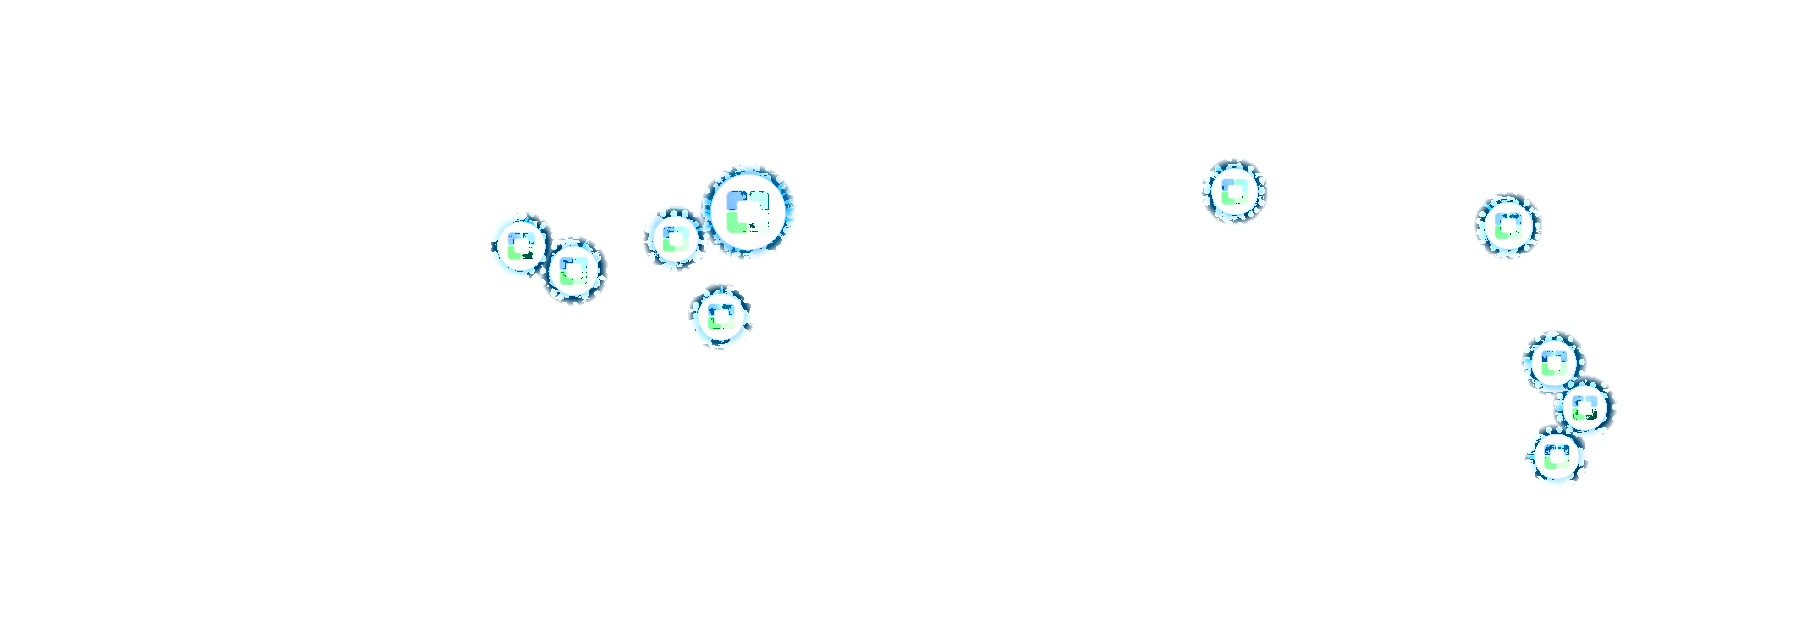
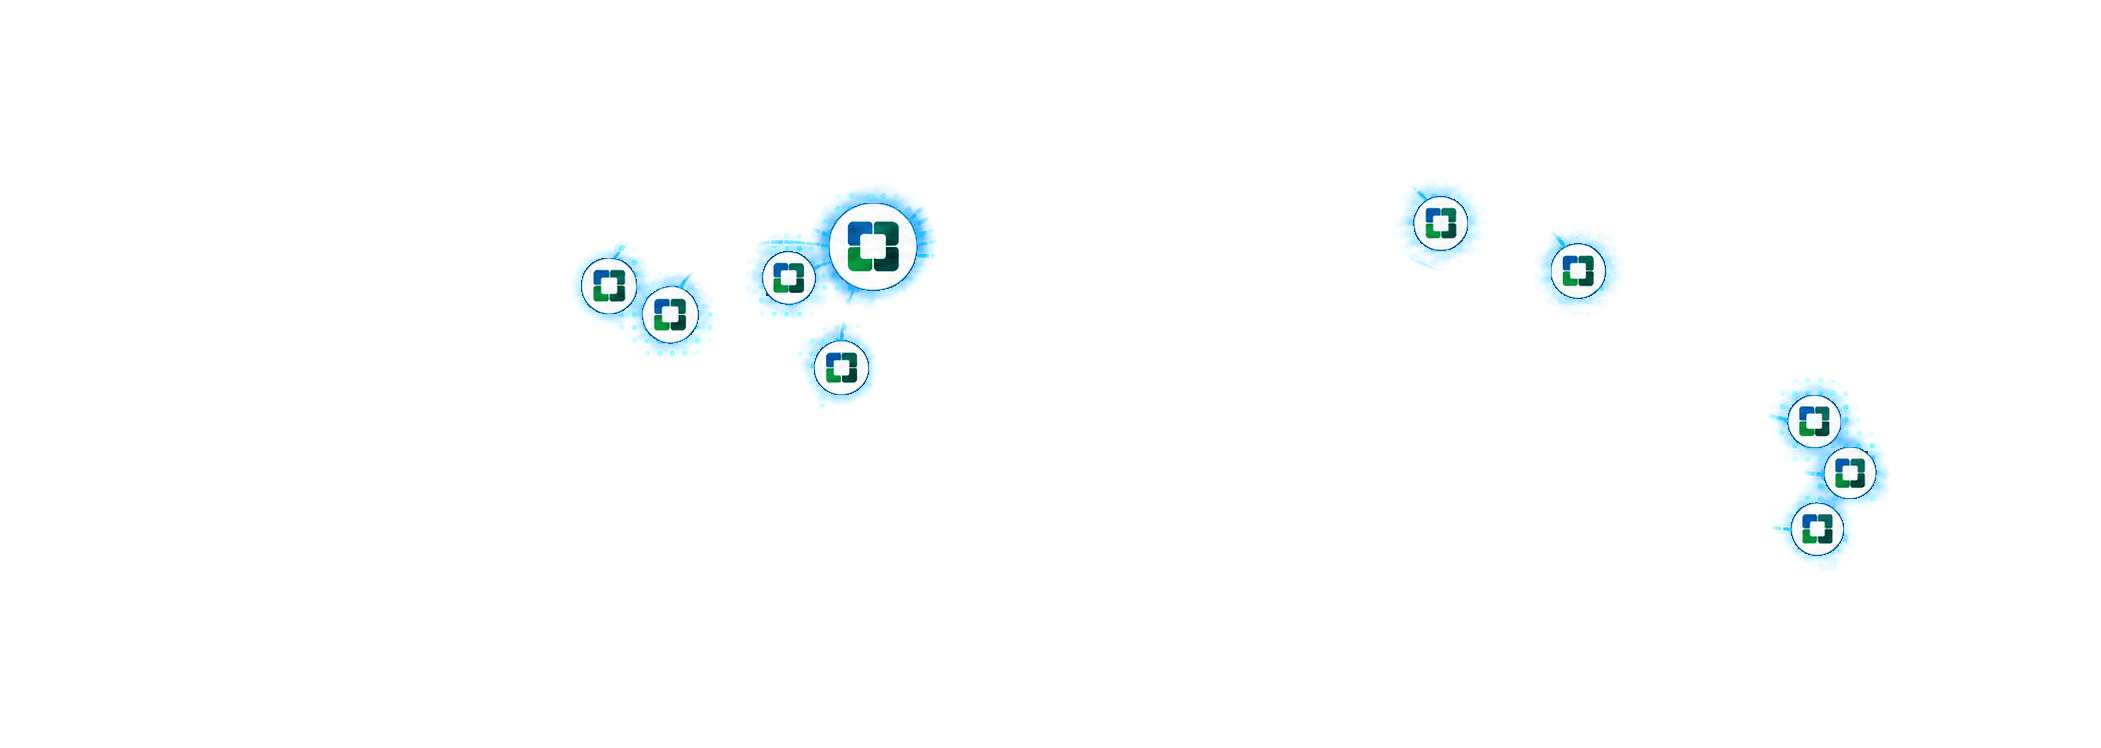
Hero: swap in the second map render and rebuild the markers layer
Replaces the previous map with the newer render. Same 2101 x 748 frame and
the same aspect ratio, so the hero layout is unchanged.

One marker moved: the seventh, in the Asia group, is now at 75.1% across
the image rather than 83.8%, about 125px left at a 1440px window. The pins
are drawn twice, once in the map and again in hero-markers.png on top so
they sit at full strength over the dimmed map, and that second layer still
held the old position. Left alone it would have shown a pin with nothing
under it at the old spot and an unlit pin at the new one, so the markers
layer is regenerated from this render: the same artwork, masked to a soft
disc around each of the ten pins. It also drops from 101 KB to 50 KB.

The drawn land now starts at 21.8% of the image rather than 22%, so the
hero sizing constant moves from 0.6716 to 0.6744.

Map is 692 KB after palette quantisation, against 1.0 MB for the map on
the live site. Re-checked at 13 widths from 1600 down to 360: no horizontal
scroll, no clipped text, both layers registered to each other everywhere.

Claude-Session: https://claude.ai/code/session_015cRJGaomSdtTSnnHsUpjYT

diff --git a/assets/styles.css b/assets/styles.css
@@ -130,13 +130,13 @@ mask-image: linear-gradient(90deg, #000 70%, transparent 100%);
 }
 /* Map size and position: as large as fits with the drawn map starting clear of the hero text
    and the last Vietnam marker ending 16px from the right edge. In the image the markers span
-   27.7% to 89.2% of its width, but the drawn land starts earlier, at 22%, so the map is sized
-   off that 22% edge rather than the first marker: sizing off the marker let the Pacific dots
-   run under the hero copy. 0.6716 is 89.2% - 22%, the span from the first ink to the last
-   marker. 620px reserves the copy column (572px), a 32px gap and the 16px right margin.
-   The image has a transparent background, so it needs no edge fades. */
+   27.7% to 89.2% of its width, but the drawn land starts earlier, at 21.8%, so the map is
+   sized off that 21.8% edge rather than the first marker: sizing off the marker let the
+   Pacific dots run under the hero copy. 0.6744 is 89.2% - 21.8%, the span from the first ink
+   to the last marker. 620px reserves the copy column (572px), a 32px gap and the 16px right
+   margin. The image has a transparent background, so it needs no edge fades. */
 .hero-worldmap {
---mapw: clamp(380px, calc((100% - max(0px, 50% - 600px) - 620px) / 0.6716), 2101px);
+--mapw: clamp(380px, calc((100% - max(0px, 50% - 600px) - 620px) / 0.6744), 2101px);
 position: absolute; top: 50%; right: calc(16px - 0.108 * var(--mapw)); transform: translateY(-50%);
 width: var(--mapw); height: auto; opacity: 0.95; display: block;
 }
